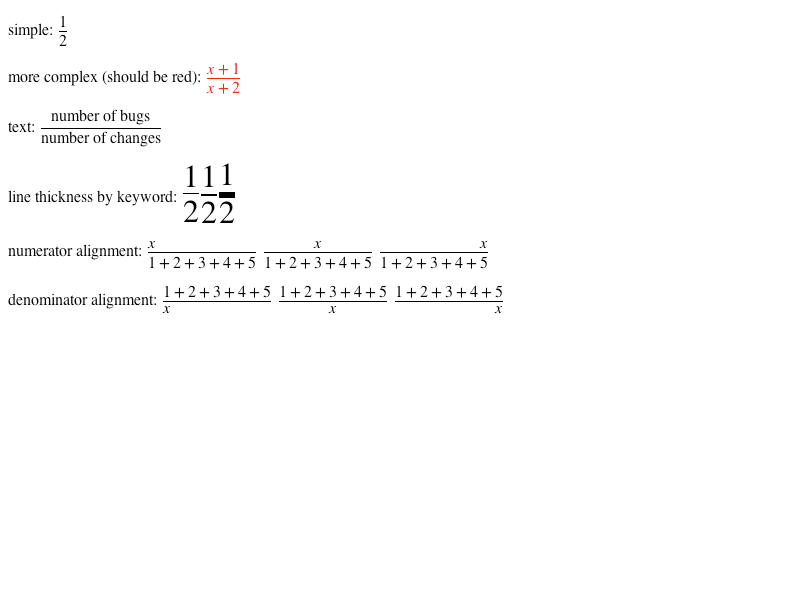
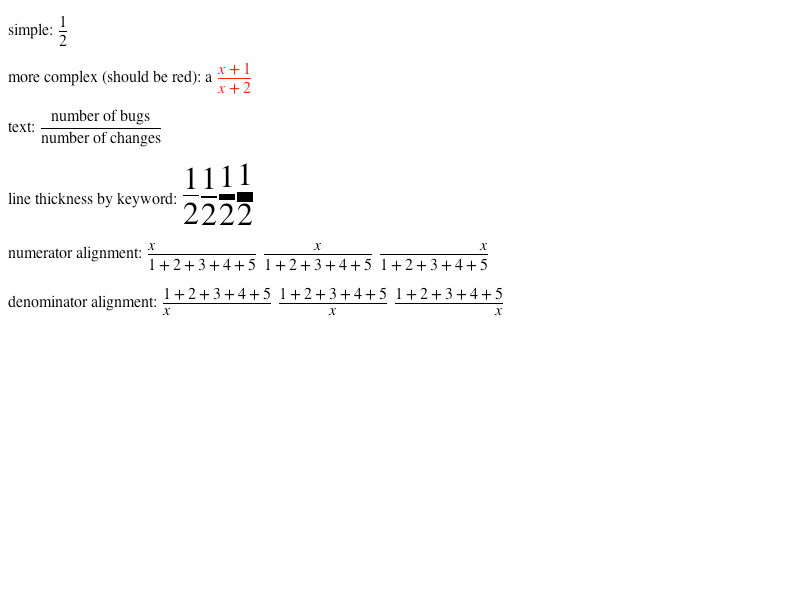
MathML line fraction needs to parse number values https://bugs.webkit.org/show_bug.cgi?id=117305
Reviewed by Darin Adler.

Source/WebCore:

The line fraction thickness was not handling arbitrary thickness numbers.
The accessibility code was not handling default values for line thickness, so
it made sense to have AX rely on the RenderFraction object to retrive the thickness.

Modified existing tests to cover new behavior.

* accessibility/AccessibilityRenderObject.cpp:
(WebCore::AccessibilityRenderObject::mathLineThickness):
* rendering/mathml/RenderMathMLFraction.cpp:
(WebCore::RenderMathMLFraction::updateFromElement):
* rendering/mathml/RenderMathMLFraction.h:
(WebCore::RenderMathMLFraction::lineThickness):
(WebCore::toRenderMathMLFraction):

LayoutTests:

Math fractions test now encodes for an arbitrary thickness number.
Accessibility test handles the default line thickness.

* mathml/presentation/fractions.xhtml:
* platform/mac/accessibility/mathml-line-fraction-expected.txt:
* platform/mac/accessibility/mathml-line-fraction.html:
* platform/mac/mathml/presentation/fractions-expected.png:
* platform/mac/mathml/presentation/fractions-expected.txt:

Identifier: 135589@main
git-svn-id: https://svn.webkit.org/repository/webkit/trunk@151323 268f45cc-cd09-0410-ab3c-d52691b4dbfc

diff --git a/LayoutTests/platform/mac/accessibility/mathml-line-fraction.html b/LayoutTests/platform/mac/accessibility/mathml-line-fraction.html
@@ -19,6 +19,13 @@
 </mfrac>
 </math>
 
+<math id="math3">
+<mfrac>
+    <mi>n</mi>
+    <mi>k</mi>
+</mfrac>
+</math>
+
 </div>
 
 <div id="console"></div>
@@ -39,6 +46,10 @@ if (window.testRunner && window.accessibilityController) {
    shouldBe("fraction2.subrole", "'AXSubrole: AXMathFraction'");
    shouldBeTrue("fraction2.isAttributeSupported('AXMathLineThickness')");
    shouldBe("fraction2.numberAttributeValue('AXMathLineThickness')", "4");
+
+   debug("\nVerify missing line thickness returns default of 1 is reported correctly.");
+   var fraction3 = accessibilityController.accessibleElementById("math3").childAtIndex(0);
+   shouldBe("fraction3.numberAttributeValue('AXMathLineThickness')", "1");
 
    document.getElementById("content").style.visibility = 'hidden';
 }

diff --git a/Source/WebCore/rendering/mathml/RenderMathMLFraction.h b/Source/WebCore/rendering/mathml/RenderMathMLFraction.h
@@ -42,6 +42,7 @@ public:
     virtual RenderMathMLOperator* unembellishedOperator();
     
     virtual int firstLineBoxBaseline() const OVERRIDE;
+    float lineThickness() const { return m_lineThickness; }
     virtual void paint(PaintInfo&, const LayoutPoint&);
 protected:
     virtual void layout();
@@ -55,6 +56,18 @@ private:
     
     float m_lineThickness;
 };
+    
+inline RenderMathMLFraction* toRenderMathMLFraction(RenderObject* object)
+{
+    ASSERT_WITH_SECURITY_IMPLICATION(!object || (object->isRenderMathMLBlock() && toRenderMathMLBlock(object)->isRenderMathMLFraction()));
+    return static_cast<RenderMathMLFraction*>(object);
+}
+
+inline const RenderMathMLFraction* toRenderMathMLFraction(const RenderObject* object)
+{
+    ASSERT_WITH_SECURITY_IMPLICATION(!object || (object->isRenderMathMLBlock() && toRenderMathMLBlock(object)->isRenderMathMLFraction()));
+    return static_cast<const RenderMathMLFraction*>(object);
+}
 
 }
 

diff --git a/Source/WebCore/rendering/mathml/RenderMathMLFraction.cpp b/Source/WebCore/rendering/mathml/RenderMathMLFraction.cpp
@@ -70,7 +70,6 @@ void RenderMathMLFraction::updateFromElement()
     if (!denominatorWrapper)
         return;
     
-    // FIXME: parse units
     String thickness = fraction->getAttribute(MathMLNames::linethicknessAttr);
     m_lineThickness = gLineMedium;
     if (equalIgnoringCase(thickness, "thin"))
@@ -79,8 +78,12 @@ void RenderMathMLFraction::updateFromElement()
         m_lineThickness = gLineMedium;
     else if (equalIgnoringCase(thickness, "thick"))
         m_lineThickness = gLineThick;
-    else if (equalIgnoringCase(thickness, "0"))
-        m_lineThickness = 0;
+    else {
+        bool converted = false;
+        int thicknessIntValue = thickness.toIntStrict(&converted);
+        if (converted)
+            m_lineThickness = thicknessIntValue;
+    }
 
     // Update the style for the padding of the denominator for the line thickness
     lastChild()->style()->setPaddingTop(Length(static_cast<int>(m_lineThickness), Fixed));

diff --git a/Source/WebCore/accessibility/AccessibilityRenderObject.cpp b/Source/WebCore/accessibility/AccessibilityRenderObject.cpp
@@ -74,6 +74,7 @@
 #include "RenderListBox.h"
 #include "RenderListMarker.h"
 #include "RenderMathMLBlock.h"
+#include "RenderMathMLFraction.h"
 #include "RenderMathMLOperator.h"
 #include "RenderMenuList.h"
 #include "RenderSVGShape.h"
@@ -3787,7 +3788,10 @@ void AccessibilityRenderObject::mathPostscripts(AccessibilityMathMultiscriptPair
 
 int AccessibilityRenderObject::mathLineThickness() const
 {
-    return getAttribute(MathMLNames::linethicknessAttr).toInt();
+    if (!isMathFraction())
+        return -1;
+    
+    return toRenderMathMLFraction(m_renderer)->lineThickness();
 }
 
 #endif
